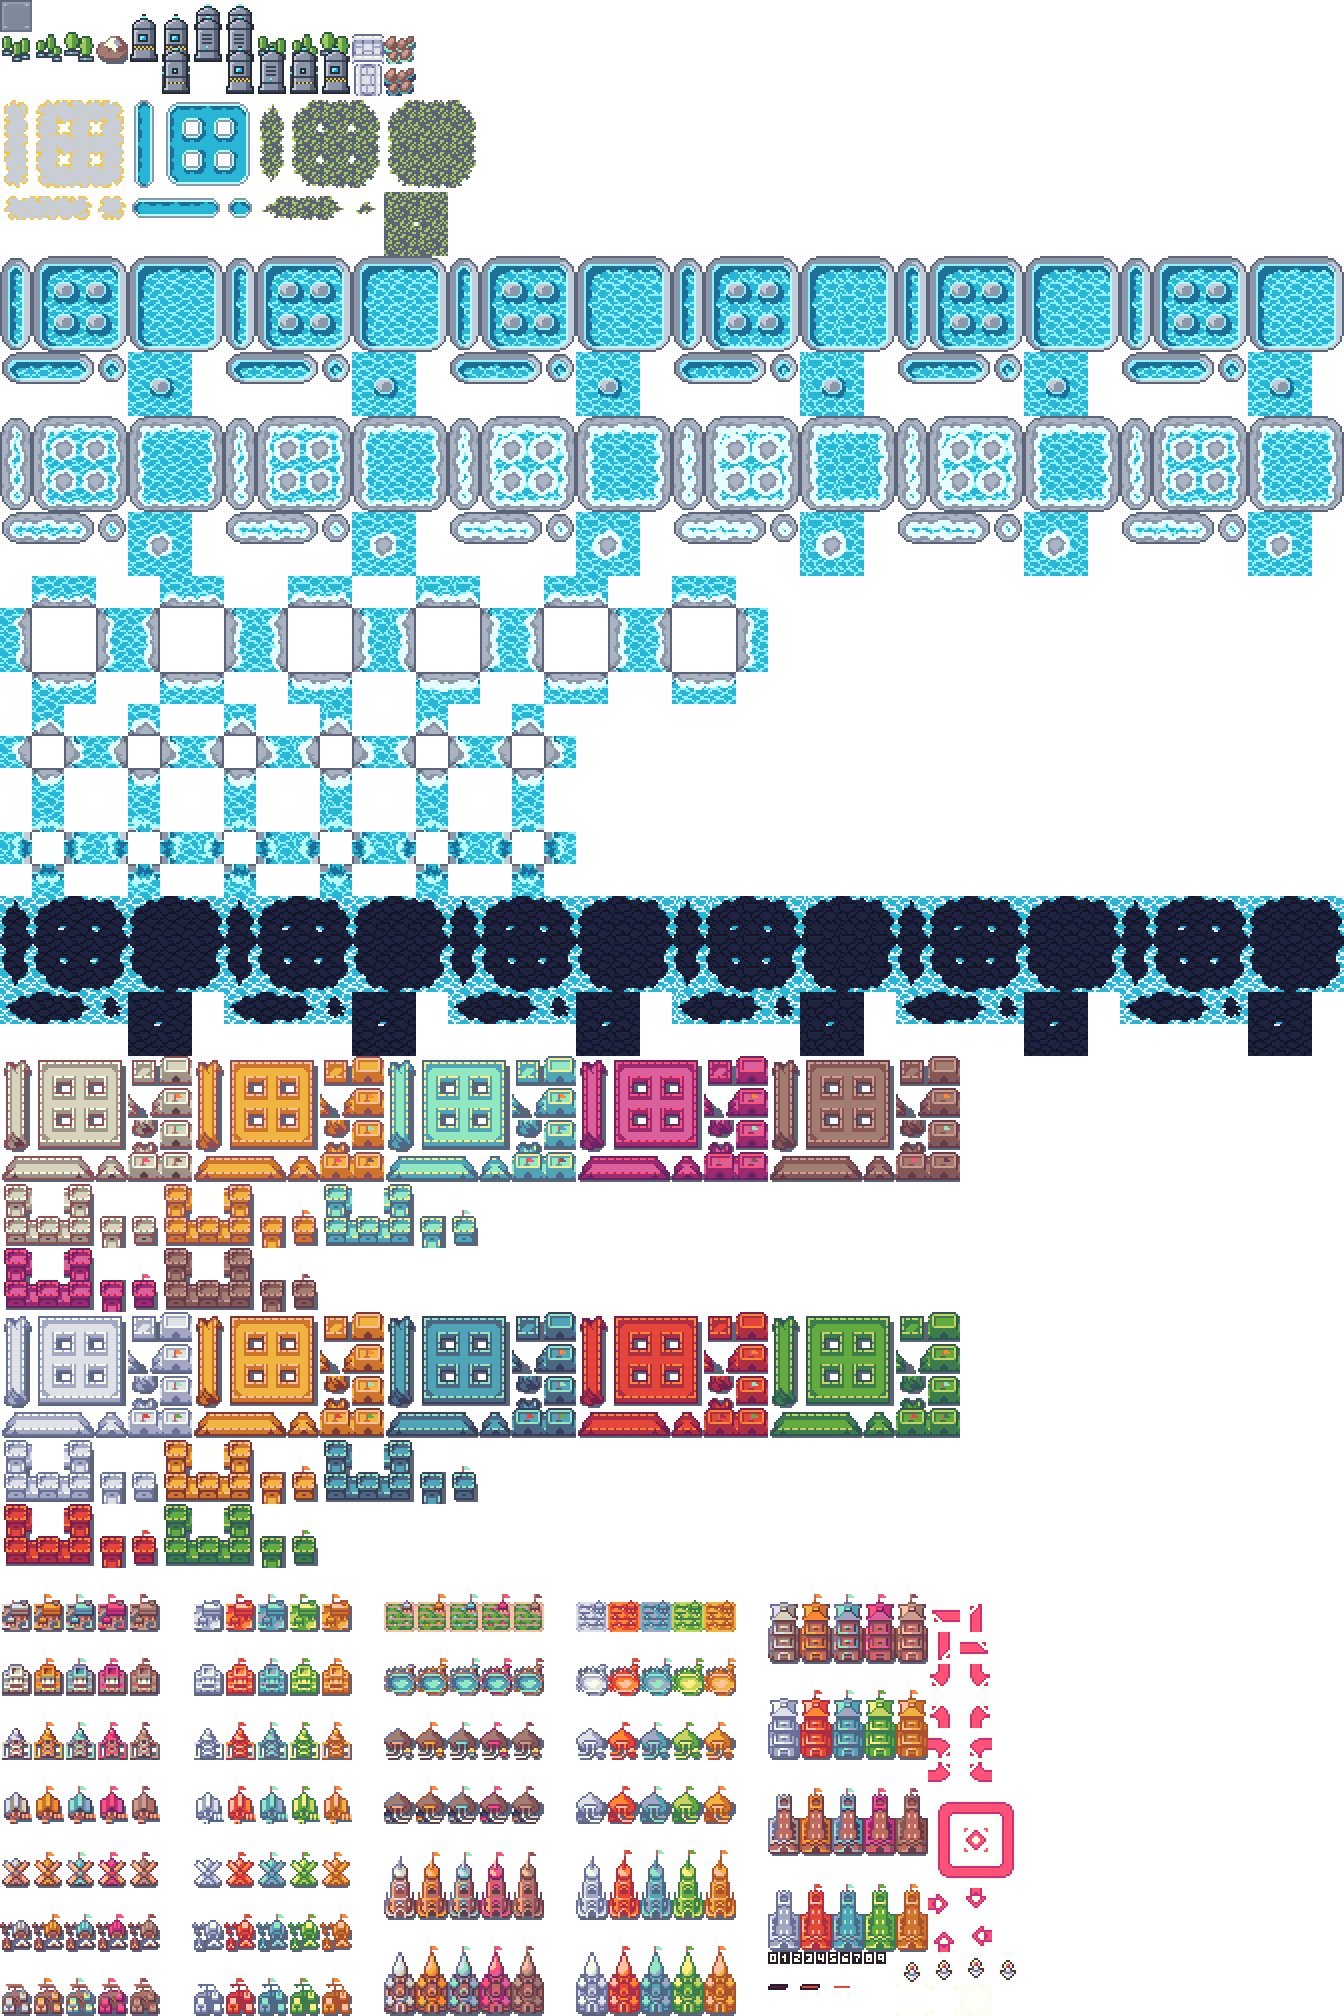
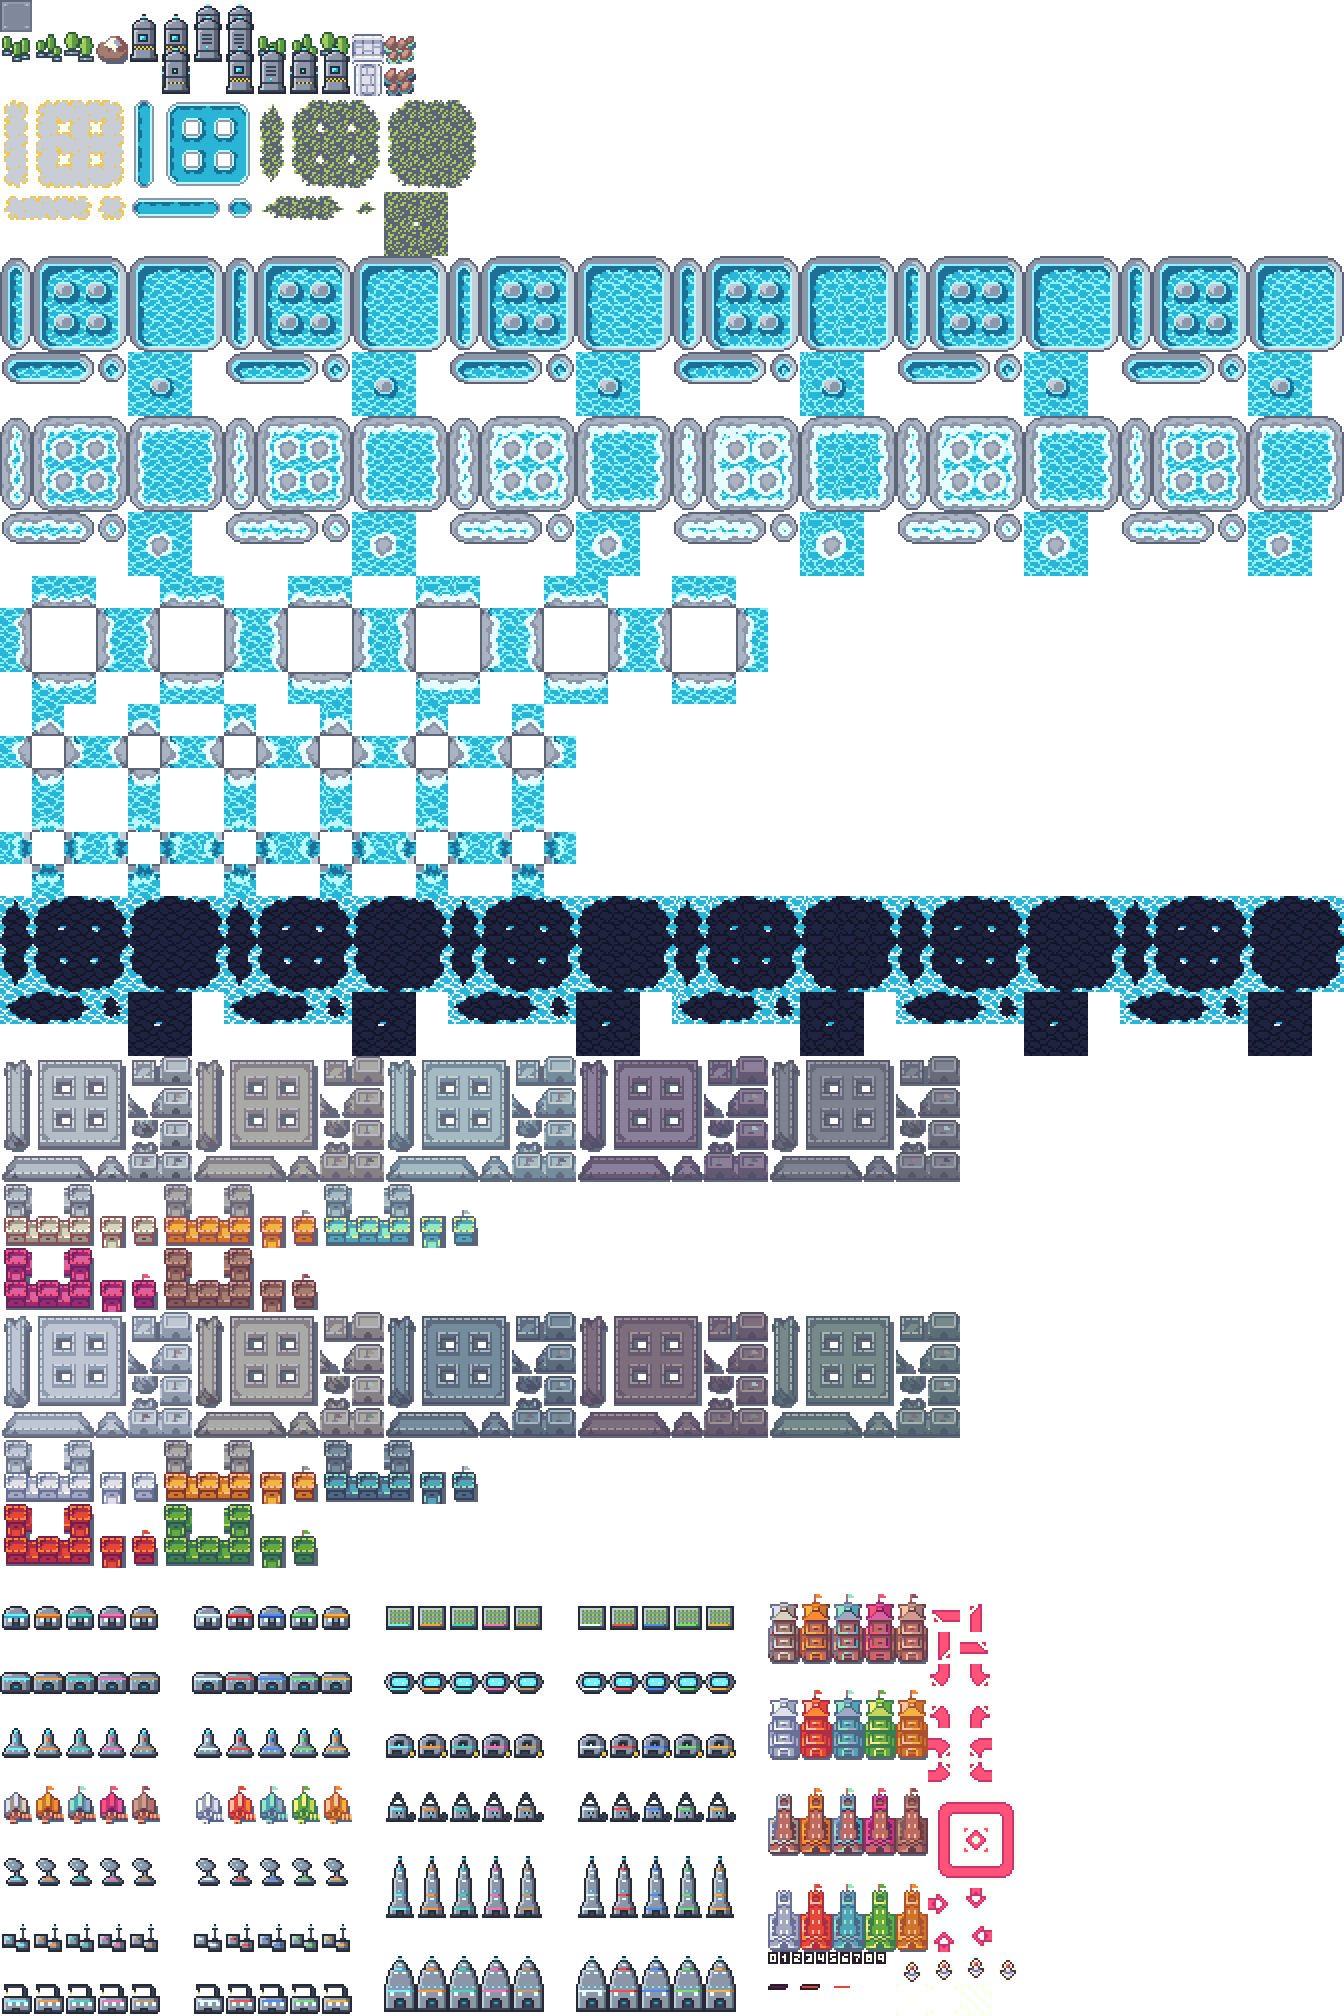
Futuristic starship buildings and steel bulkhead walls
recolor-season.js now redraws every building kind for the starship (hab
pod, bunker, holo shrine, radar dish, depot, factory, hydroponic farm,
energy pool, vault, drill rig, comm spire, command center) in each
palette's accent color, clears the flags, and turns the walls to steel.

Claude-Session: https://claude.ai/code/session_01A4Rh9FCBCCDtynCAE2tqW2

Changed region(s): [[0.0, 0.7812, 0.5625, 1.0], [0.0, 0.5, 0.7188, 0.625], [0.0, 0.625, 0.7188, 0.75]]

diff --git a/.claude/skills/tileset/scripts/recolor-season.js b/.claude/skills/tileset/scripts/recolor-season.js
@@ -11,6 +11,7 @@
 //   node .claude/skills/tileset/scripts/recolor-season.js starship src/assets/overworld.png src/assets/overworld-starship.png
 
 import { decode, encode } from './dump-png.js';
+import { BUILDING_ART, BUILDING_PALETTES } from '../../../../src/game/tileset.ts';
 
 const [season, input, output] = process.argv.slice(2);
 
@@ -265,6 +266,278 @@ const MACHINE_COMPACT = [
   '................',
 ];
 
+// The starship's buildings (BUILDING_ART), one per kind, drawn in every
+// palette with the palette's color as the accent (A, a); tall kinds also
+// have a top (`<kind>Top`). o outline, H lit, M metal, S shade, K dark,
+// G and g glow, W window, Y warning light, F and f hydroponic greens.
+const SHIP_BUILDINGS = {
+  house: [
+    '................',
+    '................',
+    '................',
+    '.....oooooo.....',
+    '...ooHHMMMMoo...',
+    '..oHHMMMMMMSSo..',
+    '..oHMMMMMMMMSo..',
+    '.oAAAAAAAAAAAAo.',
+    '.oaaaaaaaaaaaao.',
+    '.oHMWWoMMoWWSSo.',
+    '.oHMWWoMMoWWSSo.',
+    '.oHMMMoKKoMMSSo.',
+    '.oHMMMoKKoMMSSo.',
+    '.oKKKKKKKKKKKKo.',
+    '..oooooooooooo..',
+    '................',
+  ],
+  fort: [
+    '................',
+    '................',
+    '................',
+    '................',
+    '..oooooooooooo..',
+    '.oHHHHMMMMMMSSo.',
+    'oHMMMMMMMMMMMSSo',
+    'oAAAAAAAAAAAAAAo',
+    'oHMGMMGMMGMMGSSo',
+    'oHMMMMooooMMMSSo',
+    'oHMMMoKKKKoMMSSo',
+    'oHMMMoKggKoMMSSo',
+    'oHMMMoKKKKoMMSSo',
+    'oKKKKKKKKKKKKKKo',
+    '.oooooooooooooo.',
+    '................',
+  ],
+  temple: [
+    '.......oo.......',
+    '......oGGo......',
+    '......oGgo......',
+    '.....oHMMSo.....',
+    '.....oHMMSo.....',
+    '.....oHAaSo.....',
+    '.....oHAaSo.....',
+    '.....oHMMSo.....',
+    '....oHHMMSSo....',
+    '...oHMMMMMMSo...',
+    '..oAAAAAAAAAAo..',
+    '..oHMMGMMGMMSo..',
+    '.oHMMMMMMMMMSSo.',
+    '.oKKKKKKKKKKKKo.',
+    '..oooooooooooo..',
+    '................',
+  ],
+  windmill: [
+    '................',
+    '....oooo........',
+    '...oHHMMoo......',
+    '..oHMMMMMSo.....',
+    '..oHMMGMMMSo....',
+    '...oHMMMMMSo....',
+    '....oHMMMSo.....',
+    '.....ooSoo......',
+    '.......oMo......',
+    '.......oMo......',
+    '.....ooMMSoo....',
+    '....oHAAAAaSo...',
+    '...oHMMMMMMSSo..',
+    '...oKKKKKKKKKo..',
+    '....ooooooooo...',
+    '................',
+  ],
+  camp: [
+    '................',
+    '................',
+    '...........o....',
+    '...........G....',
+    '..........oKo...',
+    '...........K....',
+    '...........K....',
+    '.ooooooo...K....',
+    '.oHHMMSo...K....',
+    '.oHAAaSo..oKo...',
+    '.oHMMMSoooooooo.',
+    '.oHMMMSoHHMMSSo.',
+    '.oKKKKKoHAAAaSo.',
+    '.ooooooooMMMSSo.',
+    '........oKKKKKo.',
+    '........ooooooo.',
+  ],
+  workshop: [
+    '..oooooooooo....',
+    '..oKKKKKKKKKo...',
+    '..oo.......oKo..',
+    '...o.......oKo..',
+    '...Y.......oKo..',
+    '...........oKo..',
+    '..oooooooooooooo',
+    '.oHHHMMMMMMMMSSo',
+    '.oHAAAAAAAAAAaSo',
+    '.oHMWWMMWWMMWWSo',
+    '.oHMWWMMWWMMWWSo',
+    '.oHMMMMMMMMMMMSo',
+    '.oHMMMooooMMMMSo',
+    '.oKKKKoKKoKKKKKo',
+    '.oooooooooooooo.',
+    '................',
+  ],
+  farm: [
+    '................',
+    '................',
+    '................',
+    '.oooooooooooooo.',
+    '.oHHHHHHHHHHHSo.',
+    '.oHfFfFfFfFfFSo.',
+    '.oHMMMMMMMMMMSo.',
+    '.oHfFfFfFfFfFSo.',
+    '.oHMMMMMMMMMMSo.',
+    '.oHfFfFfFfFfFSo.',
+    '.oHMMMMMMMMMMSo.',
+    '.oHfFfFfFfFfFSo.',
+    '.oAAAAAAAAAAaSo.',
+    '.oKKKKKKKKKKKKo.',
+    '.oooooooooooooo.',
+    '................',
+  ],
+  fountain: [
+    '................',
+    '................',
+    '................',
+    '................',
+    '....oooooooo....',
+    '..ooHHMMMMMSoo..',
+    '.oHMooooooooSSo.',
+    '.oHogGGGGGGgoSo.',
+    'oHMoGGWGGGGGoSSo',
+    'oHMoGGGGGWGGoSSo',
+    '.oHogGGGGGGgoSo.',
+    '.oHMooooooooSSo.',
+    '..oAAAAAAAAaao..',
+    '...oKKKKKKKKo...',
+    '....oooooooo....',
+    '................',
+  ],
+  goldMine: [
+    '................',
+    '................',
+    '................',
+    '.....oooooo.....',
+    '...ooHHMMMSoo...',
+    '..oHHMMMMMMSSo..',
+    '.oHMMMKKKKMMSSo.',
+    '.oHMMKoooKMMSSo.',
+    '.oHMMKoAoKMMSSo.',
+    '.oAAAAAAAAAAaao.',
+    '.oHMMMMMMMMMSSo.',
+    '.oHMoooooMMMSSoo',
+    '.oHMoKKKoMMSoYYo',
+    '.oKKKKKKKKKKoYYo',
+    '.ooooooooooo.oo.',
+    '................',
+  ],
+  mine: [
+    '......oo........',
+    '.....oKKo.......',
+    '.....oKKo.......',
+    '....oKooKo......',
+    '....oK..Ko......',
+    '...oK....Ko.....',
+    '...oKooooKo.....',
+    '..oHHMMMMSSo....',
+    '..oAAAAAAaao....',
+    '..oHMMMMMMSo....',
+    '..oHMMoGoMSo.oo.',
+    '..oHMMMMMMSoKKKo',
+    '..oHMMMoMMSoKoKo',
+    '.oKKKKKoKKKKoKKo',
+    '.oooooooooooooo.',
+    '................',
+  ],
+  towerTop: [
+    '.......oo.......',
+    '.......Gg.......',
+    '.......oo.......',
+    '.......oo.......',
+    '......oHSo......',
+    '......oHSo......',
+    '.....oAAaao.....',
+    '.....oHMMSo.....',
+    '.....oHWWSo.....',
+    '.....oHMMSo.....',
+    '.....oHMMSo.....',
+    '....oHHMMSSo....',
+    '....oHMWWMSo....',
+    '....oHMMMMSo....',
+    '....oHMMMMSo....',
+    '....oHMMMMSo....',
+  ],
+  tower: [
+    '....oHMMMMSo....',
+    '....oHMGgMSo....',
+    '....oHMMMMSo....',
+    '....oAAAAaao....',
+    '....oHMMMMSo....',
+    '....oHMWWMSo....',
+    '....oHMMMMSo....',
+    '...oHHMMMMSSo...',
+    '...oHMMMMMMSo...',
+    '..oHMMMMMMMSSo..',
+    '..oAAAAAAAAaao..',
+    '..oHMMooooMSSo..',
+    '..oHMMoKKoMSSo..',
+    '.oKKKKoKKoKKKKo.',
+    '.oooooooooooooo.',
+    '................',
+  ],
+  castleTop: [
+    '................',
+    '................',
+    '.......oo.......',
+    '.......GG.......',
+    '......oKKo......',
+    '.....oHMMSo.....',
+    '....oHMWWMSo....',
+    '....oHMMMMSo....',
+    '...ooAAAAaaoo...',
+    '..oHHMMMMMMSSo..',
+    '..oHMWWMMWWMSo..',
+    '..oHMMMMMMMMSo..',
+    '.oHHMMMMMMMMSSo.',
+    '.oHMMMMMMMMMMSo.',
+    '.oHMMMMMMMMMMSo.',
+    '.oHMMMMMMMMMMSo.',
+  ],
+  castle: [
+    'oHHMMMMMMMMMMSSo',
+    'oHMGMMGMMGMMGMSo',
+    'oHMMMMMMMMMMMMSo',
+    'oAAAAAAAAAAAAaao',
+    'oHMWWMMMMMMWWMSo',
+    'oHMWWMMMMMMWWMSo',
+    'oHMMMMMMMMMMMMSo',
+    'oHMMMMooooMMMMSo',
+    'oHMMMoKKKKoMMMSo',
+    'oHMMMoKggKoMMMSo',
+    'oHMMMoKKKKoMMMSo',
+    'oHMMMoKKKKoMMMSo',
+    'oKKKKKKKKKKKKKKo',
+    'oooooooooooooooo',
+    '................',
+    '................',
+  ],
+};
+// Each palette's accent (A, a) on the starship's buildings and walls.
+const SHIP_ACCENTS = {
+  'a-stone': ['6ff3ff', '23a9cf'],
+  'a-orange': ['ff9a3c', 'c2621e'],
+  'a-teal': ['3fd6c0', '1f8f86'],
+  'a-pink': ['ff6fb5', 'b83a7c'],
+  'a-brown': ['c79a66', '7a5534'],
+  'b-white': ['e6fdff', '9fb6c4'],
+  'b-red': ['ff4a4a', 'a82424'],
+  'b-blue': ['4a8cff', '2450b0'],
+  'b-green': ['6fe36f', '2f9a3c'],
+  'b-orange': ['ffb03a', 'c27410'],
+};
+
 const SEASONS = {
   // Golden grass and rust meadows; the green building palette keeps its
   // greens (tree shade #3b7d4f is one of them, so it only changes above).
@@ -349,6 +622,7 @@ const SEASONS = {
       colors: { d: '2f5a3c', F: '9ccc5a', f: '5d9a45', h: 'c4e07a', o: '3a4152', P: '8b96a9', g: '6ff3ff' },
     },
     deck: { art: DECK, colors: { b: '5f6879', c: '939dae', a: '7f899b', s: '6b7486', r: 'b4bdcb' } },
+    structures: true,
     machines: {
       colors: {
         o: '262b38',
@@ -454,6 +728,37 @@ if (machines) {
   ]) {
     paint(column, 1, MACHINE_BODIES[body], colors);
     paint(column, 1, MACHINE_CAP, colors, true);
+  }
+}
+
+// The starship's buildings, every kind in every palette (their flag tiles
+// cleared: the accent marks the team), and its walls: every rampart group
+// redrawn in steel by brightness, keeping a little of its color.
+if (config.structures) {
+  const colors = { ...config.machines.colors, W: 'e6fdff', F: '9ccc5a', f: '5d9a45' };
+  for (const [name, palette] of Object.entries(BUILDING_PALETTES)) {
+    const [A, a] = SHIP_ACCENTS[name];
+    const tinted = { ...colors, A, a };
+    for (const [kind, { column, row, tall }] of Object.entries(BUILDING_ART)) {
+      const c = column + palette.buildingColumn;
+      paint(c, row, SHIP_BUILDINGS[kind], tinted);
+      if (tall) paint(c, row - 1, SHIP_BUILDINGS[`${kind}Top`], tinted);
+      paint(c, row - (tall ? 2 : 1), Array(16).fill('................'), tinted);
+    }
+    const [wc, wr] = palette.wall;
+    const steel = ['262b38', '3a4152', '5c6578', '8b96a9', 'c3ccd9', 'e8eef5'].map(rgb);
+    for (let y = wr * TILE; y < (wr + 5) * TILE; y++) {
+      for (let x = wc * TILE; x < (wc + 6) * TILE; x++) {
+        const px = rows[y][x];
+        if (px[3] === 0) continue;
+        const lum = (0.3 * px[0] + 0.59 * px[1] + 0.11 * px[2]) / 255;
+        const t = Math.min(0.999, 0.15 + lum * 0.7) * (steel.length - 1);
+        const [lo, hi, f] = [steel[Math.floor(t)], steel[Math.floor(t) + 1], t % 1];
+        rows[y][x] = [0, 1, 2]
+          .map((i) => Math.round((lo[i] + (hi[i] - lo[i]) * f) * 0.85 + px[i] * 0.15))
+          .concat(px[3]);
+      }
+    }
   }
 }
 

diff --git a/.claude/skills/tileset/SKILL.md b/.claude/skills/tileset/SKILL.md
@@ -80,7 +80,7 @@ Four more copies of the overworld sheet, 1344x2016 with **exactly the same layou
 - **Winter** (`overworld-winter.png`): the pack's snow tilesheet (`Tactical RPG Overworld Pack - Snow Tilesheet.png`, 3072x3072 at 3x, same used area as the green one), rescaled with the same `rescale-png.js --from 3 --to 2 --crop 672x1008` command. Snow grass, icy lavender water, grey-blue pines and round trees, a pink dirt path, and snow-roofed buildings in every palette.
 - **Autumn** (`overworld-autumn.png`): `overworld.png` with its greens swapped and its forests bare, made by `node .claude/skills/tileset/scripts/recolor-season.js autumn src/assets/overworld.png src/assets/overworld-autumn.png` (rerun it after changing the summer sheet; the script's `SEASONS` holds each season's color rules): grass `#b7d463` / `#ceda62` to golden `#e0a24e` / `#ebb55c`; mountain tufts and the grass lip under buildings and walls `#84b14d` to rust `#c06a32`; tree shade `#3b7d4f` to `#8a3424` (terrain rows 0–32 only, since the green building palette uses it too); the dark-grass meadow set (columns 8–14, rows 3–7) deeper, `#a94f27` / `#c06a32`. The forest tiles `[0, 1]`, `[1, 1]`, `[2, 1]` and their peak variants `[8, 1]`, `[9, 1]`, `[10, 1]` are redrawn from 16px ASCII art in the script (`BARE_TREES`): the same number of trees as the leafy tile (3 conifers, 3 round trees, 2 big trees), each at the leafy tree's spot, bare branches (`#8f4d57` trunk, `#5e2f36` branches) over a small pile of fallen leaves; the peak variants keep their mountain peak on top. Water, sand, mountains and buildings are untouched.
 - **Underworld** (`overworld-underworld.png`): `recolor-season.js underworld` (same command, `underworld` and `overworld-underworld.png`). Dead grey-brown ground (`#6b5c50` / `#766656`), charred meadows (`#3f3330` / `#524240`), the bare forests in charcoal with ash piles, dark grey mountains with ash caps, and every water set as lava (water `#d23c1e`, deep `#a3241a`, shade `#7a1a18`, ripples `#ef7a26`, foam `#ffcf4a` / `#ffa733`), its rocky and sandy shores black rock and ash, the dirt path ash `#8f7d70`. Water colors only change in rows 3–32, since the mountains (rows 0–2) share two of them. Buildings untouched.
-- **Starship** (`overworld-starship.png`): `recolor-season.js starship`. A habitable starship deck: the base grass tile `[0, 0]` redrawn as steel deck plating (`DECK`, seams on its top and left edges so cells read as plates, rivets in the corners); the dark-grass meadow kept green (hydroponic beds); water as glowing cyan coolant with metal rims; deep water as viewports onto space (`#121628`, its ripples as stars `#e8f0ff`); the sand-patch dirt path as a pale walkway with yellow edge lights; the beach sets as metal. Forest tiles are hydroponic planters (`PLANTERS`, green plants in metal planters, one per tree). Mountains are machinery stacks: `MACHINE_CAP` (a dome and beacon) on `[4, 0]` / `[5, 0]`, three `MACHINE_BODIES` (glowing panel, vents, side pipes) on the body tiles, body + cap on the peak-below tiles `[5, 1]` / `[7, 1]`, `MACHINE_COMPACT` + cap on `[6, 0]` / `[7, 0]`, and the cap over the planters on the forest-peak tiles `[8–10, 1]`. Building and wall lip `#84b14d` is a deck shadow `#5c6578`; buildings themselves unchanged.
+- **Starship** (`overworld-starship.png`): `recolor-season.js starship`. A habitable starship deck: the base grass tile `[0, 0]` redrawn as steel deck plating (`DECK`, seams on its top and left edges so cells read as plates, rivets in the corners); the dark-grass meadow kept green (hydroponic beds); water as glowing cyan coolant with metal rims; deep water as viewports onto space (`#121628`, its ripples as stars `#e8f0ff`); the sand-patch dirt path as a pale walkway with yellow edge lights; the beach sets as metal. Forest tiles are hydroponic planters (`PLANTERS`, green plants in metal planters, one per tree). Mountains are machinery stacks: `MACHINE_CAP` (a dome and beacon) on `[4, 0]` / `[5, 0]`, three `MACHINE_BODIES` (glowing panel, vents, side pipes) on the body tiles, body + cap on the peak-below tiles `[5, 1]` / `[7, 1]`, `MACHINE_COMPACT` + cap on `[6, 0]` / `[7, 0]`, and the cap over the planters on the forest-peak tiles `[8–10, 1]`. Building and wall lip `#84b14d` is a deck shadow `#5c6578`. Buildings are redrawn too (`SHIP_BUILDINGS`, one 16px design per `BUILDING_ART` kind: hab pod, bunker, holo shrine, radar dish, supply depot, factory, hydroponic farm, energy pool, vault, drill rig, comm spire, command center; tall kinds with a `<kind>Top`), painted into every palette's column with that palette's accent (`SHIP_ACCENTS`) on its stripes, and every flag tile cleared. The script reads `BUILDING_ART` and `BUILDING_PALETTES` from `src/game/tileset.ts`. Each palette's rampart group (5 rows x 6 columns from its `wall` tile) is redrawn as steel by brightness, keeping 15% of its color. The gates on `map-props.png` are unchanged.
 
 `map-preview.ts --season autumn|winter` renders maps from these sheets.
 
